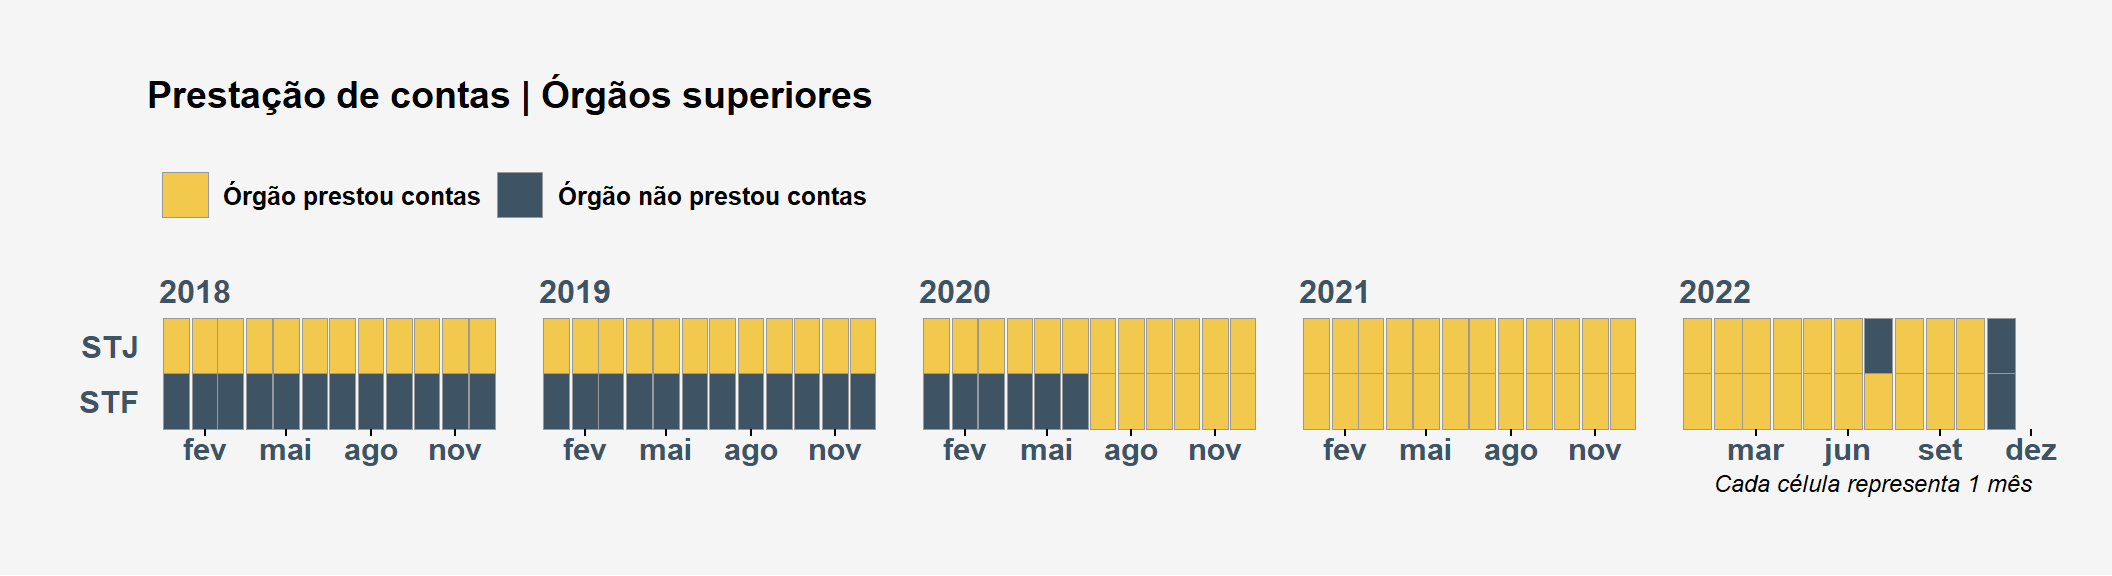
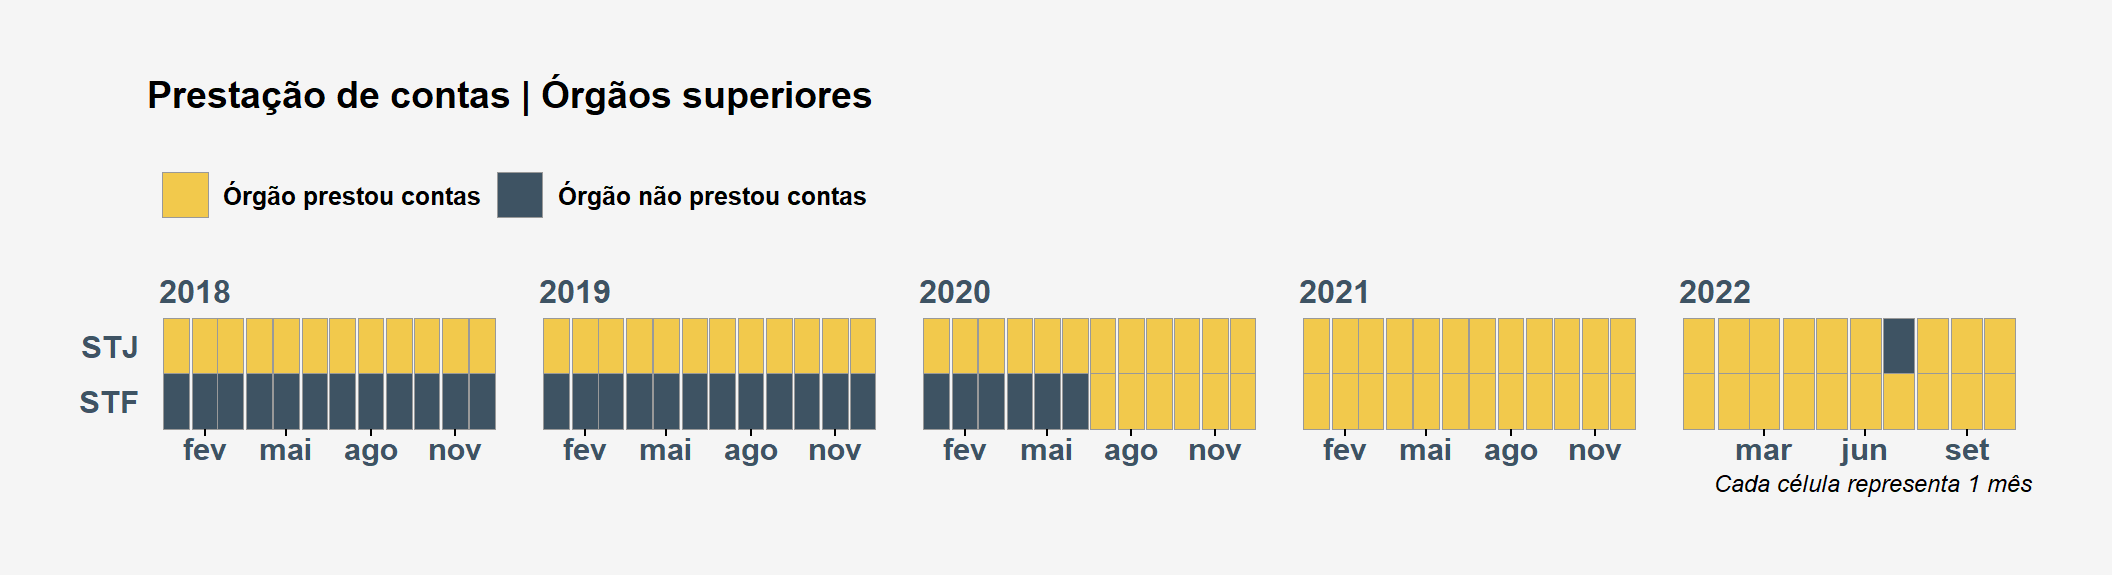
fix meses faltantes - disponibiidade de dados

Changed region(s): [[0.8125, 0.5312, 0.9688, 0.8125]]

diff --git a/docs/disponibilidade-de-dados.html b/docs/disponibilidade-de-dados.html
@@ -561,7 +561,7 @@ window.document.addEventListener("DOMContentLoaded", function (event) {
 <span id="cb1-54"><a href="#cb1-54"></a>  <span class="fu">readRDS</span>() <span class="sc">%&gt;%</span></span>
 <span id="cb1-55"><a href="#cb1-55"></a>  <span class="fu">transmute</span>(</span>
 <span id="cb1-56"><a href="#cb1-56"></a>    mes, ano, data, subgrupo,</span>
-<span id="cb1-57"><a href="#cb1-57"></a>    <span class="at">periodo_invalido =</span> <span class="fu">if_else</span>(mes <span class="sc">==</span> <span class="dv">12</span> <span class="sc">&amp;</span> ano <span class="sc">==</span> <span class="dv">2022</span>, <span class="cn">TRUE</span>, periodo_invalido),</span>
+<span id="cb1-57"><a href="#cb1-57"></a>    <span class="at">periodo_invalido =</span> <span class="fu">if_else</span>(mes <span class="sc">%in%</span> <span class="dv">11</span><span class="sc">:</span><span class="dv">12</span> <span class="sc">&amp;</span> ano <span class="sc">==</span> <span class="dv">2022</span>, <span class="cn">TRUE</span>, periodo_invalido),</span>
 <span id="cb1-58"><a href="#cb1-58"></a>    <span class="at">prestou_contas =</span> <span class="fu">if_else</span>(acesso <span class="sc">==</span> <span class="st">"Órgão não prestou contas"</span>, <span class="cn">FALSE</span>, <span class="cn">TRUE</span>),</span>
 <span id="cb1-59"><a href="#cb1-59"></a>    <span class="at">prestou_contas_lbl =</span> <span class="fu">if_else</span>(</span>
 <span id="cb1-60"><a href="#cb1-60"></a>      prestou_contas,</span>
